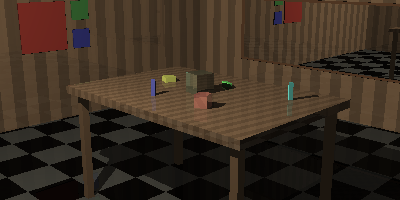
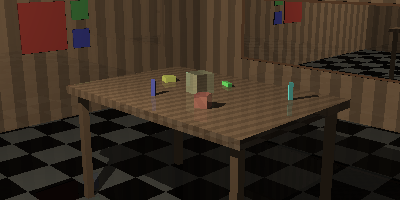
INIT opt out shadow cast for fully transparent objects

Changed region(s): [[0.45, 0.33, 0.6, 0.48]]

diff --git a/src/RayTracer.cs b/src/RayTracer.cs
@@ -92,30 +92,30 @@ public class RayTracer {
         varTestMatRing.SetPattern(new PatternRing(varOrange, varWhite));
         //varTestMatRing._fieldPattern.SetTransform(new ScalingMatrix(0.05,0.01,0.05));
 
-        DirectTracerShadow("Circle", varTestEye, 10,10, 100, new Color(1,1,1));
-        DirectTracerShadow("OrangeCircle", varTestEye, 10,10, 100, varOrange);
-        DirectRenderSphere("OrangeSphere", varTestEye, varTestLight, 10, 10, 100, varOrange);
+        // DirectTracerShadow("Circle", varTestEye, 10,10, 100, new Color(1,1,1));
+        // DirectTracerShadow("OrangeCircle", varTestEye, 10,10, 100, varOrange);
+        // DirectRenderSphere("OrangeSphere", varTestEye, varTestLight, 10, 10, 100, varOrange);
         
-        CameraRenderSphere("OrangeSphere", new ViewMatrix(varTestEye, new Point(0,0,0), new Vector(0,1,0)), varTestCanvasWidthSingle, varTestCanvasHeightSingle, varTestCanvasAngleSingle, varTestLight, new ScalingMatrix(1.5,1.5,1.5), varTestMat);
-        CameraRenderSphere("OrangeSphereStripe", new ViewMatrix(varTestEye, new Point(0,0,0), new Vector(0,1,0)), varTestCanvasWidthSingle, varTestCanvasHeightSingle, varTestCanvasAngleSingle, varTestLight, new ScalingMatrix(1.5,1.5,1.5), varTestMatStripe);
-        CameraRenderSphere("OrangeSphereGradient", new ViewMatrix(varTestEye, new Point(0,0,0), new Vector(0,1,0)), varTestCanvasWidthSingle, varTestCanvasHeightSingle, varTestCanvasAngleSingle, varTestLight, new ScalingMatrix(1.5,1.5,1.5), varTestMatGradient);
-        CameraRenderSphere("OrangeSphereCheckered", new ViewMatrix(varTestEye, new Point(0,0,0), new Vector(0,1,0)), varTestCanvasWidthSingle, varTestCanvasHeightSingle, varTestCanvasAngleSingle, varTestLight, new ScalingMatrix(1.5,1.5,1.5), varTestMatChecker);
-        CameraRenderSphere("OrangeSphereRing", new ViewMatrix(varTestEye, new Point(0,0,0), new Vector(0,1,0)), varTestCanvasWidthSingle, varTestCanvasHeightSingle, varTestCanvasAngleSingle, varTestLight, new ScalingMatrix(1.5,1.5,1.5), varTestMatRing);
+        // CameraRenderSphere("OrangeSphere", new ViewMatrix(varTestEye, new Point(0,0,0), new Vector(0,1,0)), varTestCanvasWidthSingle, varTestCanvasHeightSingle, varTestCanvasAngleSingle, varTestLight, new ScalingMatrix(1.5,1.5,1.5), varTestMat);
+        // CameraRenderSphere("OrangeSphereStripe", new ViewMatrix(varTestEye, new Point(0,0,0), new Vector(0,1,0)), varTestCanvasWidthSingle, varTestCanvasHeightSingle, varTestCanvasAngleSingle, varTestLight, new ScalingMatrix(1.5,1.5,1.5), varTestMatStripe);
+        // CameraRenderSphere("OrangeSphereGradient", new ViewMatrix(varTestEye, new Point(0,0,0), new Vector(0,1,0)), varTestCanvasWidthSingle, varTestCanvasHeightSingle, varTestCanvasAngleSingle, varTestLight, new ScalingMatrix(1.5,1.5,1.5), varTestMatGradient);
+        // CameraRenderSphere("OrangeSphereCheckered", new ViewMatrix(varTestEye, new Point(0,0,0), new Vector(0,1,0)), varTestCanvasWidthSingle, varTestCanvasHeightSingle, varTestCanvasAngleSingle, varTestLight, new ScalingMatrix(1.5,1.5,1.5), varTestMatChecker);
+        // CameraRenderSphere("OrangeSphereRing", new ViewMatrix(varTestEye, new Point(0,0,0), new Vector(0,1,0)), varTestCanvasWidthSingle, varTestCanvasHeightSingle, varTestCanvasAngleSingle, varTestLight, new ScalingMatrix(1.5,1.5,1.5), varTestMatRing);
 
-        CameraRenderPlane("OrangePlane", new ViewMatrix(varTestEye, new Point(0,0,0), new Vector(0,1,0)), varTestCanvasWidthSingle, varTestCanvasHeightSingle, varTestCanvasAngleSingle, varTestLight, new XRotationMatrix(_fieldPM.GetPI()/2), varTestMat);
-        CameraRenderPlane("OrangePlaneStripe", new ViewMatrix(varTestEye, new Point(0,0,0), new Vector(0,1,0)), varTestCanvasWidthSingle, varTestCanvasHeightSingle, varTestCanvasAngleSingle, varTestLight, new XRotationMatrix(_fieldPM.GetPI()/2), varTestMatStripe);
-        CameraRenderPlane("OrangePlaneGradient", new ViewMatrix(varTestEye, new Point(0,0,0), new Vector(0,1,0)), varTestCanvasWidthSingle, varTestCanvasHeightSingle, varTestCanvasAngleSingle, varTestLight, new XRotationMatrix(_fieldPM.GetPI()/2), varTestMatGradient);
-        CameraRenderPlane("OrangePlaneCheckered", new ViewMatrix(varTestEye, new Point(0,0,0), new Vector(0,1,0)), varTestCanvasWidthSingle, varTestCanvasHeightSingle, varTestCanvasAngleSingle, varTestLight, new XRotationMatrix(_fieldPM.GetPI()/2), varTestMatChecker);
-        CameraRenderPlane("OrangePlaneCheckerTilt", new ViewMatrix(varTestEye, new Point(0,0,0), new Vector(0,1,0)), varTestCanvasWidthSingle, varTestCanvasHeightSingle, varTestCanvasAngleSingle, varTestLight, new XRotationMatrix(-_fieldPM.GetPI()/4), varTestMatChecker);
-        CameraRenderPlane("OrangePlaneRing", new ViewMatrix(varTestEye, new Point(0,0,0), new Vector(0,1,0)), varTestCanvasWidthSingle, varTestCanvasHeightSingle, varTestCanvasAngleSingle, varTestLight, new XRotationMatrix(_fieldPM.GetPI()/2), varTestMatRing);
+        // CameraRenderPlane("OrangePlane", new ViewMatrix(varTestEye, new Point(0,0,0), new Vector(0,1,0)), varTestCanvasWidthSingle, varTestCanvasHeightSingle, varTestCanvasAngleSingle, varTestLight, new XRotationMatrix(_fieldPM.GetPI()/2), varTestMat);
+        // CameraRenderPlane("OrangePlaneStripe", new ViewMatrix(varTestEye, new Point(0,0,0), new Vector(0,1,0)), varTestCanvasWidthSingle, varTestCanvasHeightSingle, varTestCanvasAngleSingle, varTestLight, new XRotationMatrix(_fieldPM.GetPI()/2), varTestMatStripe);
+        // CameraRenderPlane("OrangePlaneGradient", new ViewMatrix(varTestEye, new Point(0,0,0), new Vector(0,1,0)), varTestCanvasWidthSingle, varTestCanvasHeightSingle, varTestCanvasAngleSingle, varTestLight, new XRotationMatrix(_fieldPM.GetPI()/2), varTestMatGradient);
+        // CameraRenderPlane("OrangePlaneCheckered", new ViewMatrix(varTestEye, new Point(0,0,0), new Vector(0,1,0)), varTestCanvasWidthSingle, varTestCanvasHeightSingle, varTestCanvasAngleSingle, varTestLight, new XRotationMatrix(_fieldPM.GetPI()/2), varTestMatChecker);
+        // CameraRenderPlane("OrangePlaneCheckerTilt", new ViewMatrix(varTestEye, new Point(0,0,0), new Vector(0,1,0)), varTestCanvasWidthSingle, varTestCanvasHeightSingle, varTestCanvasAngleSingle, varTestLight, new XRotationMatrix(-_fieldPM.GetPI()/4), varTestMatChecker);
+        // CameraRenderPlane("OrangePlaneRing", new ViewMatrix(varTestEye, new Point(0,0,0), new Vector(0,1,0)), varTestCanvasWidthSingle, varTestCanvasHeightSingle, varTestCanvasAngleSingle, varTestLight, new XRotationMatrix(_fieldPM.GetPI()/2), varTestMatRing);
 
-        ExampleSphereMirror();
-        ExampleSphereSphere("Checker", new PatternChecker(new Color(0.15, 0.15, 0.15), new Color(0.85, 0.85, 0.85)));
-        ExampleSphereSphere("Gradient", new PatternGradient(new Color(0.15, 0.15, 0.15), new Color(0.85, 0.85, 0.85)));
-        ExampleSphereSphere("Ring", new PatternRing(new Color(0.15, 0.15, 0.15), new Color(0.85, 0.85, 0.85)));
-        ExampleMirrorRoom();
+        // ExampleSphereMirror();
+        // ExampleSphereSphere("Checker", new PatternChecker(new Color(0.15, 0.15, 0.15), new Color(0.85, 0.85, 0.85)));
+        // ExampleSphereSphere("Gradient", new PatternGradient(new Color(0.15, 0.15, 0.15), new Color(0.85, 0.85, 0.85)));
+        // ExampleSphereSphere("Ring", new PatternRing(new Color(0.15, 0.15, 0.15), new Color(0.85, 0.85, 0.85)));
+        // ExampleMirrorRoom();
         ExampleCubesRoom();
-        ExampleCylinders();
+        // ExampleCylinders();
         // World varEmptyRoom = GetMirrorRoom();
         // CameraRender("EmptyRoom", varEmptyRoom);
 

diff --git a/src/World.cs b/src/World.cs
@@ -113,7 +113,7 @@ public class World {
          Vector varDirectionNormalized = varDirection.GetNormal();
         Ray varRay = new Ray (argPoint, varDirectionNormalized);
         Intersection varHit = GetIntersect(varRay).GetHit();
-        bool varShadow = varHit._fieldExists && (varHit._fieldTime < varDistance);
+        bool varShadow = varHit._fieldExists && (varHit._fieldTime < varDistance) && varHit._fieldObject._fieldCastsShadow;
         varFlagShadow = varShadow ? true : varFlagShadow;
         return varFlagShadow;
     }

diff --git a/README.md b/README.md
@@ -33,9 +33,8 @@ Ray Tracer implemented in C# following Test Driven Development methodology using
 ### Preview
 ![Refraction-Air-Pocket-Background-Checker-Example](./examples/refraction__sphere_with_air_pocket__checker.png)
 ![Refraction-Air-Pocket-Background-Ring-Example](./examples/refraction__sphere_with_air_pocket__ring.png)
-![Refraction-Air-Pocket-Background-Gradient-Example](./examples/refraction__sphere_with_air_pocket__gradient.png)
-![Reflection-Refraction-Example](./examples/reflection_refraction__scene.png)
 ![Refraction-Example](./examples/refraction.png)
+![Reflection-Refraction-Example](./examples/reflection_refraction__scene.png)
 ![Cube-Room-Made-Of-Cubes-Example](./examples/cube_room_made_of_aabb_cubes.png)
 ![Cylinders-Example](./examples/cylinders.png)
 ## Methodology
